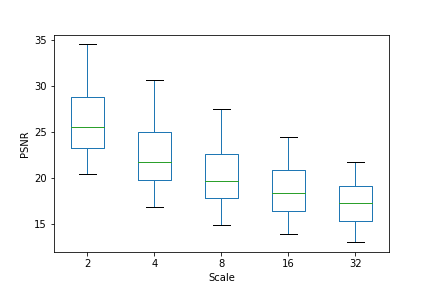
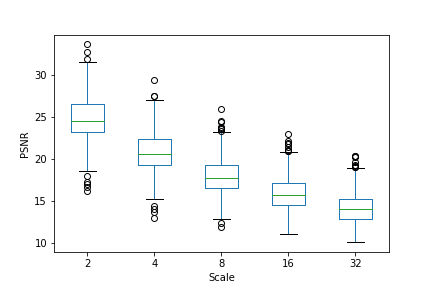
content loss function plot

diff --git a/create_tfdataset.py b/create_tfdataset.py
@@ -1,0 +1,71 @@
+# -*- coding: utf-8 -*-
+"""
+Created on Thu Oct 31 20:54:59 2019
+
+@author: valdis
+"""
+
+import os, glob
+import pandas as pd
+import tensorflow as tf
+tf.compat.v1.enable_eager_execution()
+import matplotlib.pyplot as plt
+
+def _parse_image_function(example_proto):
+  return tf.io.parse_single_example(example_proto, feature)
+    
+def content_loss(original_image, upscale_image): 
+    original_image = tf.cast(original_image, tf.int64); upscale_image = tf.cast(upscale_image, tf.int64)
+    content_loss = tf.reduce_sum(tf.square(tf.subtract(original_image, upscale_image)))
+    return content_loss
+
+if __name__ == "__main__":
+    
+    PSNR_image = 'PSNR.png'
+    content_image = 'content_loss.png'
+    
+    work_dir = os.getcwd()
+    tfrecords_folder = os.path.join(work_dir, 'tf_folder')
+    possible_scales = (2,4,8,16,32)
+    
+    tfrerods_list = glob.glob(tfrecords_folder + '/*')
+    tfdataset = tf.data.TFRecordDataset(tfrerods_list)
+    
+    feature = {'original_image': tf.io.FixedLenFeature([], tf.string), 
+               'image_name': tf.io.FixedLenFeature([], tf.string)}
+    for scale in possible_scales:
+        feature.update({'scale_image_' + str(scale): tf.io.FixedLenFeature([], tf.string)})
+    
+    parsed_image_dataset = tfdataset.map(_parse_image_function)
+    
+    PSNR_tfdataset = []; content_tfdataset = []
+    for image_features in parsed_image_dataset:
+        
+        print('Image =',image_features['image_name'].numpy().decode('utf-8'))
+        original_image = tf.io.decode_jpeg(image_features['original_image']).numpy()
+        
+        PSNR_tfrecord = []; content_tfrecord = []; texture_tfrecord = []
+        for scale_value in possible_scales: 
+            upscale_image = tf.io.decode_jpeg(image_features['scale_image_' + str(scale_value)]).numpy()
+            
+            psnr_value = tf.image.psnr(original_image, upscale_image, max_val=255, name=None)     
+            content_loss_value = content_loss(original_image, upscale_image)
+            
+            PSNR_tfrecord.append(psnr_value.numpy())
+            content_tfrecord.append(content_loss_value.numpy())
+            
+        PSNR_tfdataset.append(PSNR_tfrecord)
+        content_tfdataset.append(content_tfrecord)
+        
+    PSNR_frame = pd.DataFrame(PSNR_tfdataset, columns = [str(scale) for scale in possible_scales])
+    content_frame = pd.DataFrame(content_tfdataset, columns = [str(scale) for scale in possible_scales])
+    
+    plt.figure()
+    plt.ylabel('PSNR'); plt.xlabel('Scale')
+    PSNR_boxplot = PSNR_frame.boxplot(grid = False)
+    plt.savefig(os.path.join(work_dir, PSNR_image))
+    
+    plt.figure()
+    plt.ylabel('Content loss'); plt.xlabel('Scale')
+    PSNR_boxplot = content_frame.boxplot(grid = False)
+    plt.savefig(os.path.join(work_dir, content_image))

diff --git a/PSNR_metrics.py b/PSNR_metrics.py
@@ -4,9 +4,8 @@ Created on Thu Oct 24 10:54:49 2019
 
 @author: valdis
 """
-import pandas as pd
-import cv2, os, math, numpy
-import matplotlib.pyplot as plt
+import cv2, os
+from tqdm import tqdm
     
 def get_image(image_path): 
 
@@ -18,15 +17,6 @@ def get_image(image_path):
         cv2.imwrite(image_folder + current_image, original_image)
 
     return original_image
-
-def PSNR(original_image, upscale_image):
-    
-    value_of_diff = original_image.astype(float) - upscale_image.astype(float)
-    flatten_value = value_of_diff.flatten('C')
-    RMSE_value = math.sqrt(numpy.mean(flatten_value ** 2.))
-    PSNR_value = 20 * math.log10(255. / RMSE_value) 
-    
-    return PSNR_value
 
 def image_sub_folders(scale_folder, upscale_folder, image_name, scale_value):
     
@@ -47,9 +37,8 @@ def image_sub_folders(scale_folder, upscale_folder, image_name, scale_value):
 if __name__ == "__main__":
     
     jpeg_quality = 80
-    PSNR_image = 'PSNR.png'
     possible_scales = (2,4,8,16,32)
-    image_folder = '/home/valdis/Desktop/Lab_1/image_folder/'
+    image_folder = '/home/valdis/Desktop/Lab_1_sign/flickr_folder/'
     
     work_dir = os.getcwd()
     scale_folder = os.path.join(work_dir,'scale_folder')
@@ -62,13 +51,10 @@ if __name__ == "__main__":
     if not os.path.exists(upscale_folder):
         os.mkdir(upscale_folder)    
     
-    PSNR_total = []
-    for current_image in set_of_images:
+    for current_image in tqdm(set_of_images):
         
-        print('Image :', current_image)
         original_image = get_image(image_folder + current_image)
         
-        PSNR_buff = []
         for scale_value in possible_scales:
             
             image_name = os.path.splitext(current_image)[0]
@@ -80,14 +66,11 @@ if __name__ == "__main__":
             upscale_image = cv2.imread(scale_path, cv2.IMREAD_UNCHANGED)
             upscale_image = cv2.resize(upscale_image, (0, 0), fx = scale_value, fy = scale_value, 
                                        interpolation = cv2.INTER_NEAREST)
-            cv2.imwrite(upscale_path, upscale_image)
             
-            PSNR_buff.append(PSNR(original_image, upscale_image))
+            cv2.imwrite(upscale_path, upscale_image)                       
+
         
-        PSNR_total.append(PSNR_buff)
+        cv2.imwrite(os.path.join(upscale_folder, image_name, image_name + '.jpeg'), original_image)        
+
     
-    PSNR_frame = pd.DataFrame(PSNR_total, columns = [str(scale) for scale in possible_scales])
-    
-    plt.ylabel('PSNR'); plt.xlabel('Scale')
-    PSNR_boxplot = PSNR_frame.boxplot(grid = False)
-    plt.savefig(os.path.join(work_dir, PSNR_image))
+

diff --git a/create_tfrecord.py b/create_tfrecord.py
@@ -1,29 +1,43 @@
 # -*- coding: utf-8 -*-
 """
-Created on Tue Oct 29 15:11:27 2019
+Created on Thu Oct 31 10:34:32 2019
 
 @author: valdis
 """
-
 import os, glob
 import tensorflow as tf
 
-if __name__ == "__main__":
+def _int32_feature(value):
+  return tf.train.Feature(int_list=tf.train.Int64List(value=[value]))
 
-    possible_scales = (2,4,8,16,32)
+def _bytes_feature(value):
+  return tf.train.Feature(bytes_list=tf.train.BytesList(value=[value]))
+
+if __name__ == "__main__":
     
     work_dir = os.getcwd()
+    tfrecords_folder = os.path.join(work_dir, 'tf_folder')
     upscale_folder = os.path.join(work_dir, 'upscale_folder')
-    tf_folder = os.path.join(work_dir, 'tf_folder')
     
-    if not os.path.exists(tf_folder):
-        os.mkdir(tf_folder)
-    
-    for scale_value in possible_scales:
+    sub_scale_folder = glob.glob(upscale_folder + '/*')
+    for folder in sub_scale_folder: 
         
-        list_of_scale = glob.glob(upscale_folder + '/*/*_upscale_' + str(scale_value) + '.jpeg')
-        tf_dataset = tf.data.Dataset.from_tensor_slices(list_of_scale).map(tf.io.read_file)
-
-        tf_path = os.path.join(tf_folder,'record_' + str(scale_value) + '.tfrecord')
-        tf_record = tf.data.experimental.TFRecordWriter(tf_path)
-        tf_record.write(tf_dataset)
+        image_name = folder.split('/')[-1]
+        list_of_images = os.listdir(folder)
+        
+        feature = {}
+        for item in list_of_images:   
+            image_path = os.path.join(folder, item)
+            bytes_image = open(image_path, 'rb').read()
+            if '_upscale_' not in item:
+                image_shape = tf.image.decode_jpeg(bytes_image).shape
+                feature.update({'original_image' : _bytes_feature(bytes_image), 'image_name' : _bytes_feature(image_name.encode('utf-8'))})
+            else:
+                scale = item.split('_upscale_')[-1].split('.')[0]
+                feature.update({'scale_image_' + scale : _bytes_feature(bytes_image)})
+        
+        example = tf.train.Example(features = tf.train.Features(feature = feature))
+    
+        tfrecord_file = os.path.join(tfrecords_folder, image_name + '.tfrecord')
+        writer = tf.io.TFRecordWriter(tfrecord_file)
+        writer.write(example.SerializeToString())

diff --git a/README.md b/README.md
@@ -1,2 +1,4 @@
 # PSNR
 ![PSNR](https://github.com/valdispy/lab1/blob/master/PSNR.png)
+# Content loss function
+![content_loss](https://github.com/valdispy/lab1/blob/master/content_loss.png)
